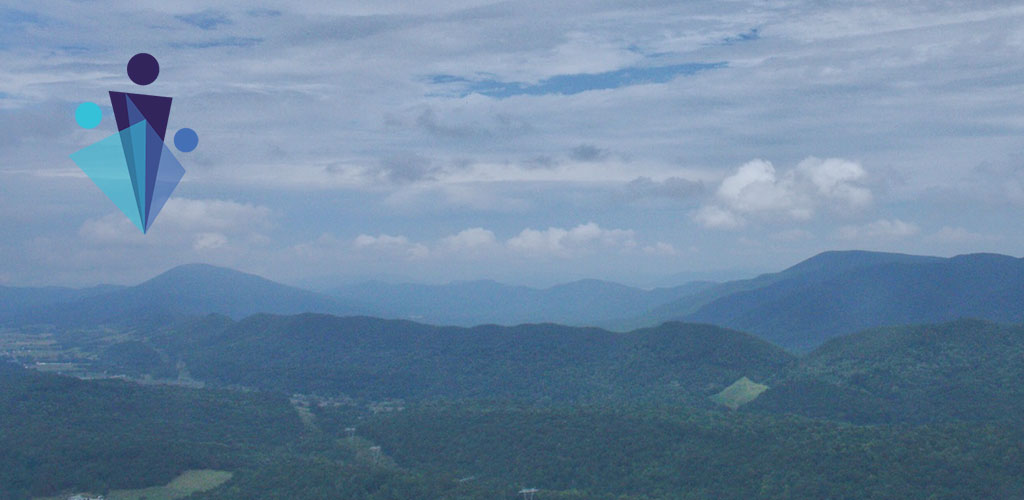
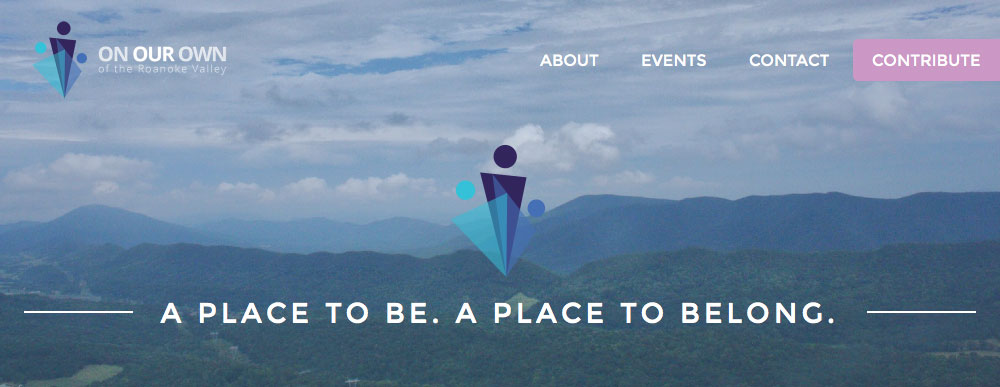
On Our Own section draft

diff --git a/index.html b/index.html
@@ -13,7 +13,7 @@ banner_photo: "images/pebbles2.jpg"
   <h2>Featured Projects</h2>
 	{% for project in site.data.projects %}
 	<a class="card project-card" href="{{ project.url }}">
-		<div class="thumb" style="background-image: url(images/banners/{{ project.banner_img }})"></div>
+		<div class="thumb" style="background-image: url({{ project.banner_img }})"></div>
 		<div class="desc">
 			<h3>{{ project.name }}</h3>
 			<p>

diff --git a/projects/onourown.md b/projects/onourown.md
@@ -2,12 +2,10 @@
 layout: post
 banner_photo: "/images/projects/onourown/onourown_sky.jpg"
 title: "On Our Own Roanoke Valley"
-subtitle: "Like a website or whatever"
+subtitle: "Our team created new branding and a responsive, maintainable website for a local nonprofit organization."
 ---
 
-![Screenshot of website](/images/projects/onourown/site_shot.png)
-
-Work
+![Image showing On Our Own website running on a phone and a laptop](/images/projects/onourown/responsive.jpg)
 
 <!-- • Intro
 	• What the project is
@@ -15,7 +13,7 @@ Work
 	• Your role and contribution on the team -->
 
 <div class="buttons">
-  <a href="https://apps.getpebble.com/en_US/application/55a5c024f4510f794c000071">
+  <a href="http://onourownroanoke.org">
     <i class="fa fa-globe fa-lg"></i>
     Visit website
   </a>
@@ -24,45 +22,79 @@ Work
 * TOC
 {:toc}
 
-On Our Own Roanoke Valley
-Working with a team, we developed a new brand and website for a local charity as part of a hackathon.
+## Introduction
 
-Make a Mark Roanoke-Blacksburg was started last year as a way to help local nonprofits connect and engage with local design and web professionals. In their words, it is
+[Make a Mark Roanoke-Blacksburg](http://makeamarkrb.org/2016/) was started last year as a way to help local nonprofits connect and engage with local design and web professionals. In their words:
 
-"A 12 hour design and development marathon benefitting our local nonprofits."
+> A 12 hour design and development marathon benefitting our local nonprofits.
 
-As part of the event, local designers and coders are grouped and paired with selected local nonprofit organizations.
+During the event, which primarily consists of a one-day hackathon, teams of local designers and coders are paired up with selected nonprofit organizations. Projects may include websites, logo design, or even TV ads!
 
 <!-- • Situation (note: I'm sort of combining the situation and intro bits here, since they tie together)
 	• How/why the problem exists
 	• Why the problem matters -->
 
-The team consisted of a graphic design student, a product designer with a successful Kickstarter, two full-stack developers, and myself. Prior to the hackathon itself, several team members met up with representatives from Our paired organization was "On Our Own Roanoke Valley"
+In our case, the team consisted of five members: a graphic design student, a product designer with a [successful Kickstarter](https://www.kickstarter.com/projects/vasplanter/vas-modular-vertical-planter/description), two full-stack developers, and myself.
+Prior to the event itself, several of our team members met up with representatives from our paired organization: **On Our Own Roanoke Valley**.
 
-"A safe haven for consumers of mental health services"
+### On Our Own Roanoke Valley: Our Partnered Organization
 
-During the conversation, we learned of On Our Own impacts the local community, providing a welcoming community for those with mental health who had experienced similar
+> A safe haven for consumers of mental health services
 
-important to the community, but their outdated website was causing them increasingly difficult time in updating it. Furthermore, the person who had originally set up the website was no longer a part of the organization.
+As part of this early planning meeting, we talked with the leader of On Our Own, discussing the organization's objectives and how it impacts the local community. On Our Own's focus, we learned, is providing a welcoming community for those with mental health issues, run by people who have themselves overcome similar issues.
 
-We wanted to ensure that On Our Own would be able to easily update that website without needing any specialized technical knowledge. In addition, we also wanted to give them a visually pleasing, modern responsive website that would work on today's devices.
+Unfortunately, their web presence was lacking; while On Our Own did have a website, it was highly problematic. Not only was it incompatible with mobile devices, it was reliant on outdated and difficult to use software to maintain. Compounding this issue, the original creator of the website was no longer available. As such, the leader of the organization had contacted Make A Mark in hopes of addressing these issues.
 
+{% include img.html
+  url="/images/projects/onourown/oldsite.png"
+  alt="Screenshot of old On Our Own website"
+  caption="On Our Own's original website"
+%}
 
+## Designing a Replacement
 
-They wanted a new website to replace their existing site, which was reliant on old software and also just didn't look very nice.
+Our team wanted to ensure that On Our Own would be able to easily update that website without needing any specialized technical knowledge. In addition, we also wanted to build a visually pleasing, modern responsive website that would work on today's devices.
 
-[shot of classic website]
+On the day of the Make A Mark event, our entire team was assembled for the first time. Prior to the event itself, via email, we had discussed options for maintaining the site, and concluded that we would use [Wordpress](https://wordpress.org/), because it would provide a relatively easy way for the organization's leaders to update the site and was a system with which several team members (including me) already had some level of experience.
 
-On our own  is important to the community, but their outdated website was causing them increasingly difficult time in updating it. Furthermore, the person who had originally set up the website was no longer a part of the organization.
+{% include img.html
+  url="/images/projects/onourown/team_photo1.jpg"
+  alt="Screenshot of old On Our Own website"
+  caption="Our team, at the Make A Mark 2016 event. <a href='https://www.facebook.com/MakeaMarkRB/photos'>Photo courtesy of Make A Mark</a>"
+%}
 
-We wanted to ensure that On Our Own would be able to easily update that website without needing any specialized technical knowledge. In addition, we also wanted to give them a visually pleasing, modern responsive website that would work on today's devices.
+### From Sketches To Reality
 
-<!-- • Action
-	• The process you and your team took to get there
-	• UX Deliverables/activities done to help solve problem.
-		○ Personas
-		○ user research
-		○ wireframes, etc -->
+As the development team worked to coordinate their development environments, the product designer and I worked on some initial sketches. At the same time, our visual designer began exploring on a new branding identity for the organization.
+
+{% include img.html
+  url="/images/projects/onourown/sketchbook1.jpg"
+  alt="Initial layout sketches" w="500"
+  caption="Some of our initial layout sketches"
+%}
+
+Once we had the basic layouts defined, our visual designer had put together some initial concepts for a new branding identity, including color guidelines and font pairings. Using [Sketch](https://www.sketchapp.com/) on my laptop, I set out to synthesize our earlier layout sketches with elements from the new graphical directions provided by our visual designer.
+
+{% include img.html
+  url="/images/projects/onourown/hifi_draft_collage.jpg"
+  alt="Early header mockups"
+  caption="Some early header mockups I created based on our layout sketches"
+%}
+
+Once new visual identity was more finalized, our visual designer moved on to writing new copy for the site, while
+I began final refinement of the full-fidelity mockups. Meanwhile, the product designer, who had prior experience
+with Wordpress theming, moved over to help the dev team with coding the website itself. I continued refining the
+mockups, determining how the site would look on mobile devices and when scrolled.
+
+By the end of the day, we had a complete set of mockups, as well as a nearly-completed website.
+In the following few days, the dev team wrote the final remaining pieces of code that were required.
+Finally, I stepped in and made several final alterations to the CSS, adding a final level of polish.
+
+{% include img.html
+  url="/images/projects/onourown/final_mockup_collage.png"
+  alt="Final mockup collage"
+  caption="The final set of mockups for On Our Own"
+%}
 
 <!--
 • Results
@@ -71,4 +103,14 @@ We wanted to ensure that On Our Own would be able to easily update that website 
 	• Survey scores
 	• What you learned from the project -->
 
-Online at
+
+## Conclusion
+
+The representatives from On Our Own were present at the event, and we would often show them
+our current works in progress. Thanks to their input, we were able to greatly refine the text
+on the page, and really focus on what makes On Our Own special as an organization!
+
+The site is now online for their use, and I'm proud of my role in helping them to
+revamp their vastly outmoded web presence. It proved to be an
+good opportunity to engage with the wider community and work with so many
+other talented individuals.

diff --git a/README.md b/README.md
@@ -11,7 +11,7 @@ That means it's entirely possible for a reader to submit pull requests!
 
 * Applies aspects of Google's material design for a clean and consistent look and
   feel across projects and pages
-* Projects are as easy to create as posts, with single Markdown files
+* Project pages work almost like blog posts, and only require a single Markdown file
 * Definitely a website
 
 ## Responsive
@@ -27,4 +27,5 @@ That means it's entirely possible for a reader to submit pull requests!
 All the content (blog posts, photos, other graphics) are licensed under
 [CC BY 4.0](http://creativecommons.org/licenses/by/4.0/), and the code itself is
 licensed under the [MIT License](http://opensource.org/licenses/MIT), so you can
-go fork this site and make your own portfolio!
+go fork this site and make your own portfolio! As far as I can tell no one
+has actually done this, so you could be the first!
